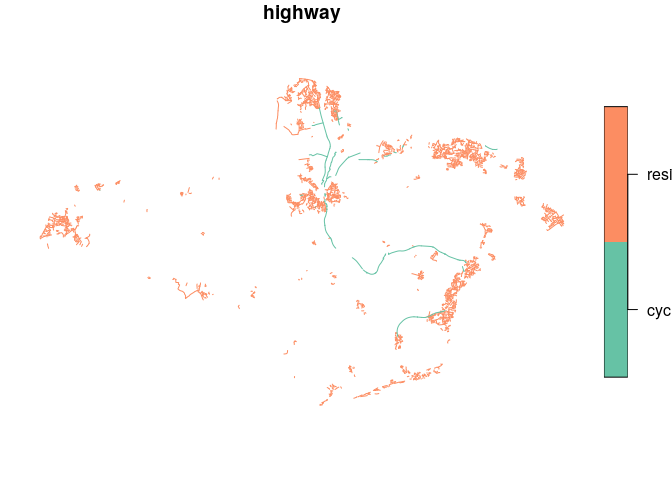
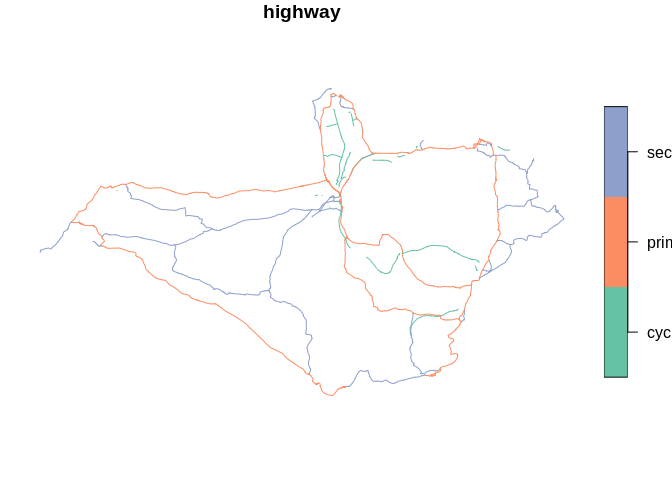
Add gf_filename()

diff --git a/README.md b/README.md
@@ -46,11 +46,10 @@ with `attributes` argument):
 library(geofabric)
 andorra_lines = get_geofabric(name = "andorra", layer = "lines")
 #> No exact matching geofabric zone. Best match is Andorra (1.5 MB)
-#> Downloading http://download.geofabrik.de/europe/andorra-latest.osm.pbf to 
-#> /tmp/Rtmp3TDgSG/andorra.osm.pbf
+#> Data already detected in ~/hd/data/osm/Andorra.osm.pbf
 #> Old attributes: attributes=name,highway,waterway,aerialway,barrier,man_made
 #> New attributes: attributes=name,highway,waterway,aerialway,barrier,man_made,maxspeed,oneway,building,surface,landuse,natural,start_date,wall,service,lanes,layer,tracktype,bridge,foot,bicycle,lit,railway,footway
-#> Using ini file that can can be edited with file.edit(/tmp/Rtmp3TDgSG/ini_new.ini)
+#> Using ini file that can can be edited with file.edit(/tmp/Rtmp6x01W9/ini_new.ini)
 names(andorra_lines)
 #>  [1] "osm_id"     "name"       "highway"    "waterway"   "aerialway" 
 #>  [6] "barrier"    "man_made"   "maxspeed"   "oneway"     "building"  
@@ -60,10 +59,10 @@ names(andorra_lines)
 #> [26] "z_order"    "other_tags" "geometry"
 andorra_point = get_geofabric(name = "andorra", layer = "points", attributes = "shop")
 #> No exact matching geofabric zone. Best match is Andorra (1.5 MB)
-#> Data already detected in /tmp/Rtmp3TDgSG/andorra.osm.pbf
+#> Data already detected in ~/hd/data/osm/Andorra.osm.pbf
 #> Old attributes: attributes=name,barrier,highway,ref,address,is_in,place,man_made
 #> New attributes: attributes=name,barrier,highway,ref,address,is_in,place,man_made,shop
-#> Using ini file that can can be edited with file.edit(/tmp/Rtmp3TDgSG/ini_new.ini)
+#> Using ini file that can can be edited with file.edit(/tmp/Rtmp6x01W9/ini_new.ini)
 names(andorra_point) # note the 'shop' column has been added
 #>  [1] "osm_id"     "name"       "barrier"    "highway"    "ref"       
 #>  [6] "address"    "is_in"      "place"      "man_made"   "shop"      
@@ -84,31 +83,48 @@ will search for and import the nearest matching zone:
 ``` r
 iow_lines = get_geofabric(name = "isle wight")
 #> No exact matching geofabric zone. Best match is Isle of Wight (7.2 MB)
-#> Downloading http://download.geofabrik.de/europe/great-britain/england/isle-of-wight-latest.osm.pbf to 
-#> /tmp/Rtmp3TDgSG/isle wight.osm.pbf
+#> Data already detected in ~/hd/data/osm/Isle of Wight.osm.pbf
 #> Old attributes: attributes=name,highway,waterway,aerialway,barrier,man_made
 #> New attributes: attributes=name,highway,waterway,aerialway,barrier,man_made,maxspeed,oneway,building,surface,landuse,natural,start_date,wall,service,lanes,layer,tracktype,bridge,foot,bicycle,lit,railway,footway
-#> Using ini file that can can be edited with file.edit(/tmp/Rtmp3TDgSG/ini_new.ini)
-iow_file = file.path(tempdir(), "isle wight.osm.pbf")
-plot(iow_lines$geometry) # note the lines contain ferry services to france and elsewhere
+#> Using ini file that can can be edited with file.edit(/tmp/Rtmp6x01W9/ini_new.ini)
 ```
 
-<img src="man/figures/README-matching-1.png" width="100%" />
-
-Take care: files downloaded from geofabrik can be large.
-
-If you want to use `st_read()` to read-in the .pbf files, e.g. to set
-additional query arguments, you can do so, as demonstrated
-below.
+Take care: files downloaded from geofabrik can be large. You can find
+information on the geofabrik region defining the boundaries of the
+result with `gf_find()`:
 
 ``` r
-query = "select highway from lines where highway = 'cycleway' or highway = 'residential'"
-iow_lines_subset = sf::st_read(iow_file, layer = "lines", query = query)
-#> Reading layer `lines' from data source `/tmp/Rtmp3TDgSG/isle wight.osm.pbf' using driver `OSM'
-#> Simple feature collection with 2537 features and 1 field
+iow_gf_region = gf_find("isle wight")
+#> No exact matching geofabric zone. Best match is Isle of Wight (7.2 MB)
+plot(iow_gf_region)
+#> Warning: plotting the first 9 out of 11 attributes; use max.plot = 11 to plot
+#> all
+```
+
+<img src="man/figures/README-unnamed-chunk-2-1.png" width="100%" />
+
+``` r
+iow_gf_name = iow_gf_region$name
+iow_gf_name
+#> [1] "Isle of Wight"
+```
+
+If you want to use `st_read()` to read-in the .pbf files, e.g. to set
+additional query arguments, you can do so, as demonstrated below.
+
+``` r
+iow_gf_file = gf_filename(iow_gf_name)
+iow_gf_file
+#> [1] "~/hd/data/osm/Isle of Wight.osm.pbf"
+file.exists(iow_gf_file)
+#> [1] TRUE
+query = "select highway from lines where highway = 'cycleway' or highway = 'secondary' or highway = 'primary'"
+iow_lines_subset = sf::st_read(iow_gf_file, layer = "lines", query = query)
+#> Reading layer `lines' from data source `/mnt/57982e2a-2874-4246-a6fe-115c199bc6bd/data/osm/Isle of Wight.osm.pbf' using driver `OSM'
+#> Simple feature collection with 1057 features and 1 field
 #> geometry type:  LINESTRING
 #> dimension:      XY
-#> bbox:           xmin: -1.549514 ymin: 50.57872 xmax: -1.072414 ymax: 50.76727
+#> bbox:           xmin: -1.565827 ymin: 50.58314 xmax: -1.083348 ymax: 50.76245
 #> epsg (SRID):    4326
 #> proj4string:    +proj=longlat +datum=WGS84 +no_defs
 plot(iow_lines_subset)
@@ -141,9 +157,9 @@ info about each geofabric zone:
 
 ``` r
 names(geofabric_zones)
-#>  [1] "name"         "size_pbf"     "pbf_url"      "page_url"    
-#>  [5] "part_of"      "level"        "continent"    "country"     
-#>  [9] "region"       "subregion"    "geometry_url" "geometry"
+#>  [1] "name"         "size_pbf"     "pbf_url"      "page_url"     "part_of"     
+#>  [6] "level"        "continent"    "country"      "region"       "subregion"   
+#> [11] "geometry_url" "geometry"
 ```
 
 Each geographic level (continents, countries, regions and subregions) is
